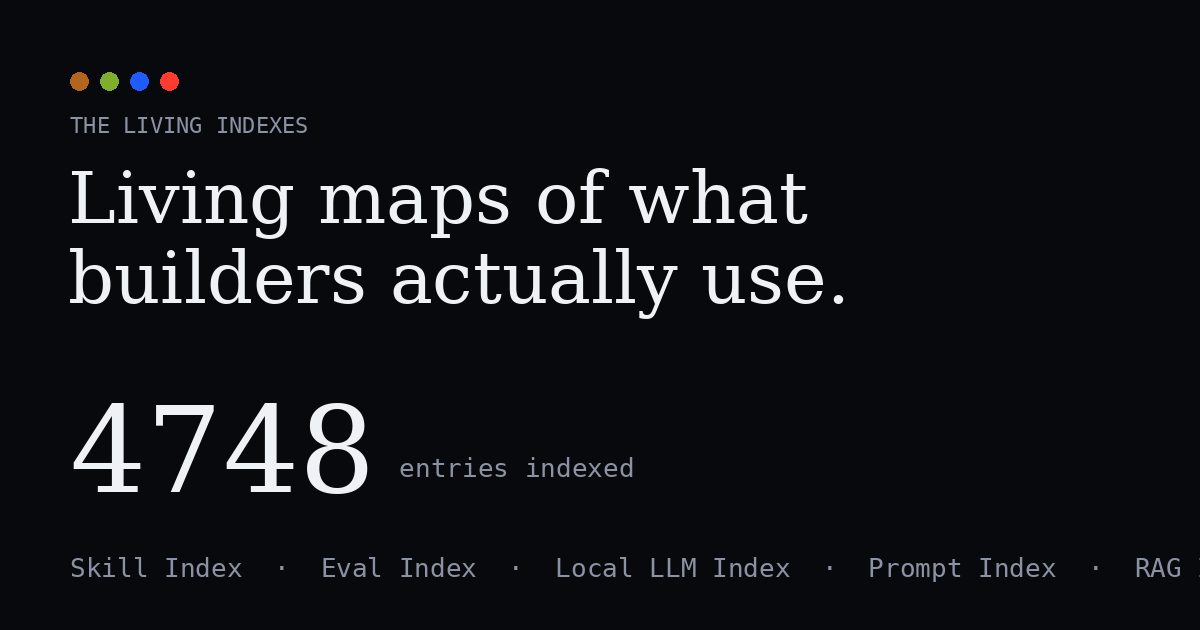
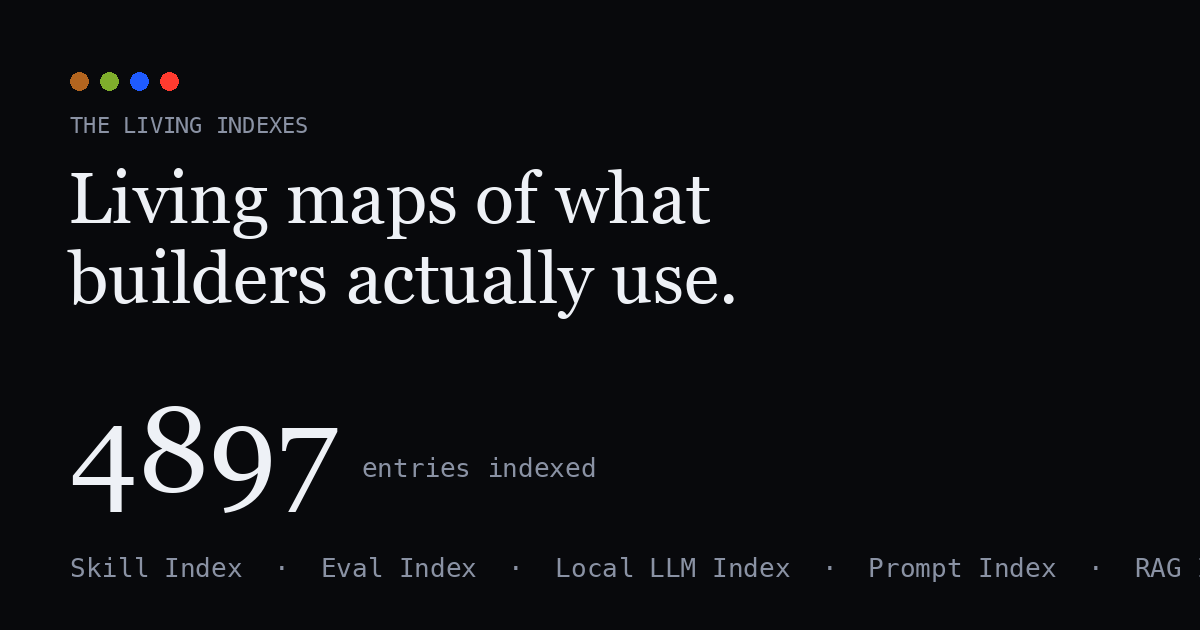
feat: add The Agent Index (#15) to the fleet — hub grid, static list, ItemList JSON-LD, footer

diff --git a/index.html b/index.html
@@ -27,10 +27,10 @@
 {"@context": "https://schema.org", "@type": "WebSite", "name": "The Living Indexes", "url": "https://indexes.kymatalabs.com/", "description": "A hub for self-updating indexes of the AI-builder ecosystem, each recomputed daily from live GitHub signals.", "publisher": {"@type": "Organization", "name": "Kymata Labs LLC", "url": "https://www.kymatalabs.com"}}
 </script>
 <script type="application/ld+json">
-{"@context": "https://schema.org", "@type": "CollectionPage", "name": "The Living Indexes", "url": "https://indexes.kymatalabs.com/", "description": "A fleet of 13 self-updating indexes of the AI-builder ecosystem, each recomputed daily from live GitHub signals.", "hasPart": {"@type": "ItemList", "numberOfItems": 13, "itemListElement": [{"@type": "ListItem", "position": 1, "url": "https://skill.kymatalabs.com/", "name": "The Skill Index", "description": "A living index of Claude Code & AI-agent skills, ranked daily by GitHub momentum."}, {"@type": "ListItem", "position": 2, "url": "https://eval.kymatalabs.com/", "name": "The Eval Index", "description": "A living index of LLM evaluation & benchmarking tools, ranked daily by GitHub momentum."}, {"@type": "ListItem", "position": 3, "url": "https://localllm.kymatalabs.com/", "name": "The Local LLM Index", "description": "A living index of tools for running LLMs locally, ranked daily by GitHub momentum."}, {"@type": "ListItem", "position": 4, "url": "https://prompt.kymatalabs.com/", "name": "The Prompt Index", "description": "A living index of prompt-engineering resources, ranked daily by GitHub momentum."}, {"@type": "ListItem", "position": 5, "url": "https://rag.kymatalabs.com/", "name": "The RAG Index", "description": "A living index of retrieval-augmented-generation tooling, ranked daily by GitHub momentum."}, {"@type": "ListItem", "position": 6, "url": "https://diffusion.kymatalabs.com/", "name": "The Diffusion Index", "description": "A living index of AI image & video generation, ranked daily by GitHub momentum."}, {"@type": "ListItem", "position": 7, "url": "https://voice.kymatalabs.com/", "name": "The Voice AI Index", "description": "A living index of voice & speech AI, ranked daily by GitHub momentum."}, {"@type": "ListItem", "position": 8, "url": "https://dataset.kymatalabs.com/", "name": "The Dataset Index", "description": "A living index of data-centric AI tooling, ranked daily by GitHub momentum."}, {"@type": "ListItem", "position": 9, "url": "https://finetune.kymatalabs.com/", "name": "The Fine-Tuning Index", "description": "A living index of LLM fine-tuning, ranked daily by GitHub momentum."}, {"@type": "ListItem", "position": 10, "url": "https://stacktracker.kymatalabs.com/", "name": "StackTracker", "description": "A living index of AI-infrastructure momentum, ranked daily by GitHub momentum."}, {"@type": "ListItem", "position": 11, "url": "https://modelradar.kymatalabs.com/", "name": "Model Radar", "description": "A living index of what's surging on Hugging Face, ranked daily by GitHub momentum."}, {"@type": "ListItem", "position": 12, "url": "https://mcp.kymatalabs.com/", "name": "The MCP Index", "description": "A living index of Model Context Protocol servers, ranked daily by GitHub momentum."}, {"@type": "ListItem", "position": 13, "url": "https://agentvelocity.kymatalabs.com/", "name": "Agent Velocity", "description": "A living index of the open-source coding-agent race, ranked daily by GitHub momentum."}]}}
+{"@context": "https://schema.org", "@type": "CollectionPage", "name": "The Living Indexes", "url": "https://indexes.kymatalabs.com/", "description": "A fleet of 15 self-updating indexes of the AI-builder ecosystem, each recomputed daily from live GitHub signals.", "hasPart": {"@type": "ItemList", "numberOfItems": 15, "itemListElement": [{"@type": "ListItem", "position": 1, "url": "https://skill.kymatalabs.com/", "name": "The Skill Index", "description": "A living index of Claude Code & AI-agent skills, ranked daily by GitHub momentum."}, {"@type": "ListItem", "position": 2, "url": "https://eval.kymatalabs.com/", "name": "The Eval Index", "description": "A living index of LLM evaluation & benchmarking tools, ranked daily by GitHub momentum."}, {"@type": "ListItem", "position": 3, "url": "https://localllm.kymatalabs.com/", "name": "The Local LLM Index", "description": "A living index of tools for running LLMs locally, ranked daily by GitHub momentum."}, {"@type": "ListItem", "position": 4, "url": "https://prompt.kymatalabs.com/", "name": "The Prompt Index", "description": "A living index of prompt-engineering resources, ranked daily by GitHub momentum."}, {"@type": "ListItem", "position": 5, "url": "https://rag.kymatalabs.com/", "name": "The RAG Index", "description": "A living index of retrieval-augmented-generation tooling, ranked daily by GitHub momentum."}, {"@type": "ListItem", "position": 6, "url": "https://diffusion.kymatalabs.com/", "name": "The Diffusion Index", "description": "A living index of AI image & video generation, ranked daily by GitHub momentum."}, {"@type": "ListItem", "position": 7, "url": "https://voice.kymatalabs.com/", "name": "The Voice AI Index", "description": "A living index of voice & speech AI, ranked daily by GitHub momentum."}, {"@type": "ListItem", "position": 8, "url": "https://dataset.kymatalabs.com/", "name": "The Dataset Index", "description": "A living index of data-centric AI tooling, ranked daily by GitHub momentum."}, {"@type": "ListItem", "position": 9, "url": "https://finetune.kymatalabs.com/", "name": "The Fine-Tuning Index", "description": "A living index of LLM fine-tuning, ranked daily by GitHub momentum."}, {"@type": "ListItem", "position": 10, "url": "https://stacktracker.kymatalabs.com/", "name": "StackTracker", "description": "A living index of AI-infrastructure momentum, ranked daily by GitHub momentum."}, {"@type": "ListItem", "position": 11, "url": "https://modelradar.kymatalabs.com/", "name": "Model Radar", "description": "A living index of what's surging on Hugging Face, ranked daily by GitHub momentum."}, {"@type": "ListItem", "position": 12, "url": "https://mcp.kymatalabs.com/", "name": "The MCP Index", "description": "A living index of Model Context Protocol servers, ranked daily by GitHub momentum."}, {"@type": "ListItem", "position": 13, "url": "https://agentvelocity.kymatalabs.com/", "name": "Agent Velocity", "description": "A living index of the open-source coding-agent race, ranked daily by GitHub momentum."}, {"@type": "ListItem", "position": 14, "url": "https://gateway.kymatalabs.com/", "name": "The Gateway Index", "description": "A living index of LLM gateways, proxies & routers, ranked daily by GitHub momentum."}, {"@type": "ListItem", "position": 15, "url": "https://agents.kymatalabs.com/", "name": "The Agent Index", "description": "A living index of AI agent frameworks — multi-agent, autonomous, orchestration & memory — ranked daily by GitHub momentum."}]}}
 </script>
 <script type="application/ld+json">
-{"@context": "https://schema.org", "@type": "FAQPage", "mainEntity": [{"@type": "Question", "name": "What are The Living Indexes?", "acceptedAnswer": {"@type": "Answer", "text": "The Living Indexes are a fleet of 13 self-updating directories of the AI-builder ecosystem — covering Claude Code skills, LLM evaluation, local LLMs, prompts, RAG, image and video generation, voice and speech, datasets, fine-tuning, infrastructure, Hugging Face models, MCP servers and coding agents. Each index ranks hundreds of open-source tools by momentum, recomputed every day from live GitHub signals, and is built and operated end-to-end by Kymata Labs' AI agents."}}, {"@type": "Question", "name": "How is momentum scored across the fleet?", "acceptedAnswer": {"@type": "Answer", "text": "Momentum is a 0–100 score that blends log-scaled GitHub stars (55%), push-recency (32%, full credit if pushed today, decaying to zero by about 180 days), and rising-newness (13%, a bonus for young repositories gaining stars fast). A tool that shipped this week can outrank a larger tool that has gone quiet."}}, {"@type": "Question", "name": "How often are the indexes updated?", "acceptedAnswer": {"@type": "Answer", "text": "Every day. A GitHub Action per index recomputes each tool's momentum from live GitHub signals and republishes the site automatically, with no human in the loop — so every index reflects the ecosystem as it is today."}}, {"@type": "Question", "name": "Who builds and operates The Living Indexes?", "acceptedAnswer": {"@type": "Answer", "text": "The Living Indexes are built and operated by Kymata Labs (kymatalabs.com), shipped by its tekvisions agents. Each index is its own self-updating site; this hub aggregates the fleet."}}]}
+{"@context": "https://schema.org", "@type": "FAQPage", "mainEntity": [{"@type": "Question", "name": "What are The Living Indexes?", "acceptedAnswer": {"@type": "Answer", "text": "The Living Indexes are a fleet of 15 self-updating directories of the AI-builder ecosystem — covering Claude Code skills, LLM evaluation, local LLMs, prompts, RAG, image and video generation, voice and speech, datasets, fine-tuning, infrastructure, Hugging Face models, MCP servers, coding agents, LLM gateways and agent frameworks. Each index ranks hundreds of open-source tools by momentum, recomputed every day from live GitHub signals, and is built and operated end-to-end by Kymata Labs' AI agents."}}, {"@type": "Question", "name": "How is momentum scored across the fleet?", "acceptedAnswer": {"@type": "Answer", "text": "Momentum is a 0–100 score that blends log-scaled GitHub stars (55%), push-recency (32%, full credit if pushed today, decaying to zero by about 180 days), and rising-newness (13%, a bonus for young repositories gaining stars fast). A tool that shipped this week can outrank a larger tool that has gone quiet."}}, {"@type": "Question", "name": "How often are the indexes updated?", "acceptedAnswer": {"@type": "Answer", "text": "Every day. A GitHub Action per index recomputes each tool's momentum from live GitHub signals and republishes the site automatically, with no human in the loop — so every index reflects the ecosystem as it is today."}}, {"@type": "Question", "name": "Who builds and operates The Living Indexes?", "acceptedAnswer": {"@type": "Answer", "text": "The Living Indexes are built and operated by Kymata Labs (kymatalabs.com), shipped by its tekvisions agents. Each index is its own self-updating site; this hub aggregates the fleet."}}]}
 </script>
 </head>
 <body>
@@ -56,13 +56,13 @@
   <section class="hero"><div class="wrap">
     <div class="kicker">Recomputed daily from live GitHub signals</div>
     <h1 class="serif">Living maps of what<br>builders <em>actually</em> use.</h1>
-    <p class="lede">Thirteen self-updating indexes of the AI-builder ecosystem. No editors, no vendor decks — every entry ranked by momentum, refreshed every day.</p>
+    <p class="lede">Fifteen self-updating indexes of the AI-builder ecosystem. No editors, no vendor decks — every entry ranked by momentum, refreshed every day.</p>
     <div class="bignum"><div class="n serif" id="total">0</div><div class="l">entries indexed across the fleet</div></div>
   </div></section>
 
   <div class="wrap"><div class="grid" id="grid"></div></div>
   <section class="about"><div class="wrap">
-    <h2>The fleet — 13 living indexes</h2>
+    <h2>The fleet — 15 living indexes</h2>
     <div class="fleet">
       <a class="fcard" href="https://skill.kymatalabs.com" target="_blank" rel="noopener"><span class="fn">The Skill Index</span><span class="fd">Claude Code &amp; AI-agent skills</span></a>
       <a class="fcard" href="https://eval.kymatalabs.com" target="_blank" rel="noopener"><span class="fn">The Eval Index</span><span class="fd">LLM evaluation &amp; benchmarking tools</span></a>
@@ -77,12 +77,14 @@
       <a class="fcard" href="https://modelradar.kymatalabs.com" target="_blank" rel="noopener"><span class="fn">Model Radar</span><span class="fd">what's surging on Hugging Face</span></a>
       <a class="fcard" href="https://mcp.kymatalabs.com" target="_blank" rel="noopener"><span class="fn">The MCP Index</span><span class="fd">Model Context Protocol servers</span></a>
       <a class="fcard" href="https://agentvelocity.kymatalabs.com" target="_blank" rel="noopener"><span class="fn">Agent Velocity</span><span class="fd">the open-source coding-agent race</span></a>
+      <a class="fcard" href="https://gateway.kymatalabs.com" target="_blank" rel="noopener"><span class="fn">The Gateway Index</span><span class="fd">LLM gateways, proxies &amp; routers</span></a>
+      <a class="fcard" href="https://agents.kymatalabs.com" target="_blank" rel="noopener"><span class="fn">The Agent Index</span><span class="fd">AI agent frameworks</span></a>
     </div>
   </div></section>
 
   <section class="about"><div class="wrap">
     <h2>About The Living Indexes</h2>
-    <p class="intro">The Living Indexes are a fleet of 13 self-updating directories of the AI-builder ecosystem — from Claude Code skills, evals and local LLMs to RAG, image and video generation, voice, datasets, fine-tuning, MCP servers and coding agents. Each index ranks hundreds of open-source tools by momentum, recomputed daily from live GitHub signals, so the maps reflect what builders are actually adopting right now — not last year. The whole fleet is built and operated end-to-end by <a href="https://www.kymatalabs.com">Kymata Labs</a>' AI agents.</p>
+    <p class="intro">The Living Indexes are a fleet of 15 self-updating directories of the AI-builder ecosystem — from Claude Code skills, evals and local LLMs to RAG, image and video generation, voice, datasets, fine-tuning, MCP servers, coding agents, LLM gateways and agent frameworks. Each index ranks hundreds of open-source tools by momentum, recomputed daily from live GitHub signals, so the maps reflect what builders are actually adopting right now — not last year. The whole fleet is built and operated end-to-end by <a href="https://www.kymatalabs.com">Kymata Labs</a>' AI agents.</p>
     <div class="faq">
       <div class="q"><h3>How is momentum scored?</h3><p>A 0&ndash;100 score blending log-scaled stars (55%), push-recency (32%, decaying to zero by ~180 days) and rising-newness (13%). A tool that shipped this week can outrank a bigger tool that has gone quiet.</p></div>
       <div class="q"><h3>How often is it updated?</h3><p>Every day. A GitHub Action per index recomputes momentum and redeploys automatically, with no human in the loop.</p></div>
@@ -108,6 +110,8 @@
     <a href="https://modelradar.kymatalabs.com" target="_blank" rel="noopener">Model Radar</a>
     <a href="https://mcp.kymatalabs.com" target="_blank" rel="noopener">MCP Index</a>
     <a href="https://agentvelocity.kymatalabs.com" target="_blank" rel="noopener">Agent Velocity</a>
+    <a href="https://gateway.kymatalabs.com" target="_blank" rel="noopener">Gateway Index</a>
+    <a href="https://agents.kymatalabs.com" target="_blank" rel="noopener">Agent Index</a>
   </div>
   <div class="updated" id="updated"></div>
 </div></footer>

diff --git a/build_data.py b/build_data.py
@@ -46,6 +46,12 @@ INDEXES = [
     {"key": "finetune", "name": "The Fine-Tuning Index", "tag": "Fine-Tuning",
      "blurb": "Make your own model — fine-tuning frameworks, PEFT/LoRA, RLHF/DPO, training data.",
      "url": "https://finetune.kymatalabs.com", "accent": "#ff6a00"},
+    {"key": "gateway", "name": "The Gateway Index", "tag": "Gateways",
+     "blurb": "LLM gateways, proxies & routers — the routing layer between apps and model providers.",
+     "url": "https://gateway.kymatalabs.com", "accent": "#2ee6c6"},
+    {"key": "agent", "name": "The Agent Index", "tag": "Agents",
+     "blurb": "AI agent frameworks — multi-agent, autonomous agents, orchestration, memory & agent SDKs.",
+     "url": "https://agents.kymatalabs.com", "accent": "#b07cff"},
     # The original four trackers — same self-updating pattern, different data.json shapes
     # (so each carries a `count_key`). They predate the `count`/`items` schema.
     {"key": "stack", "name": "StackTracker", "tag": "Infra",